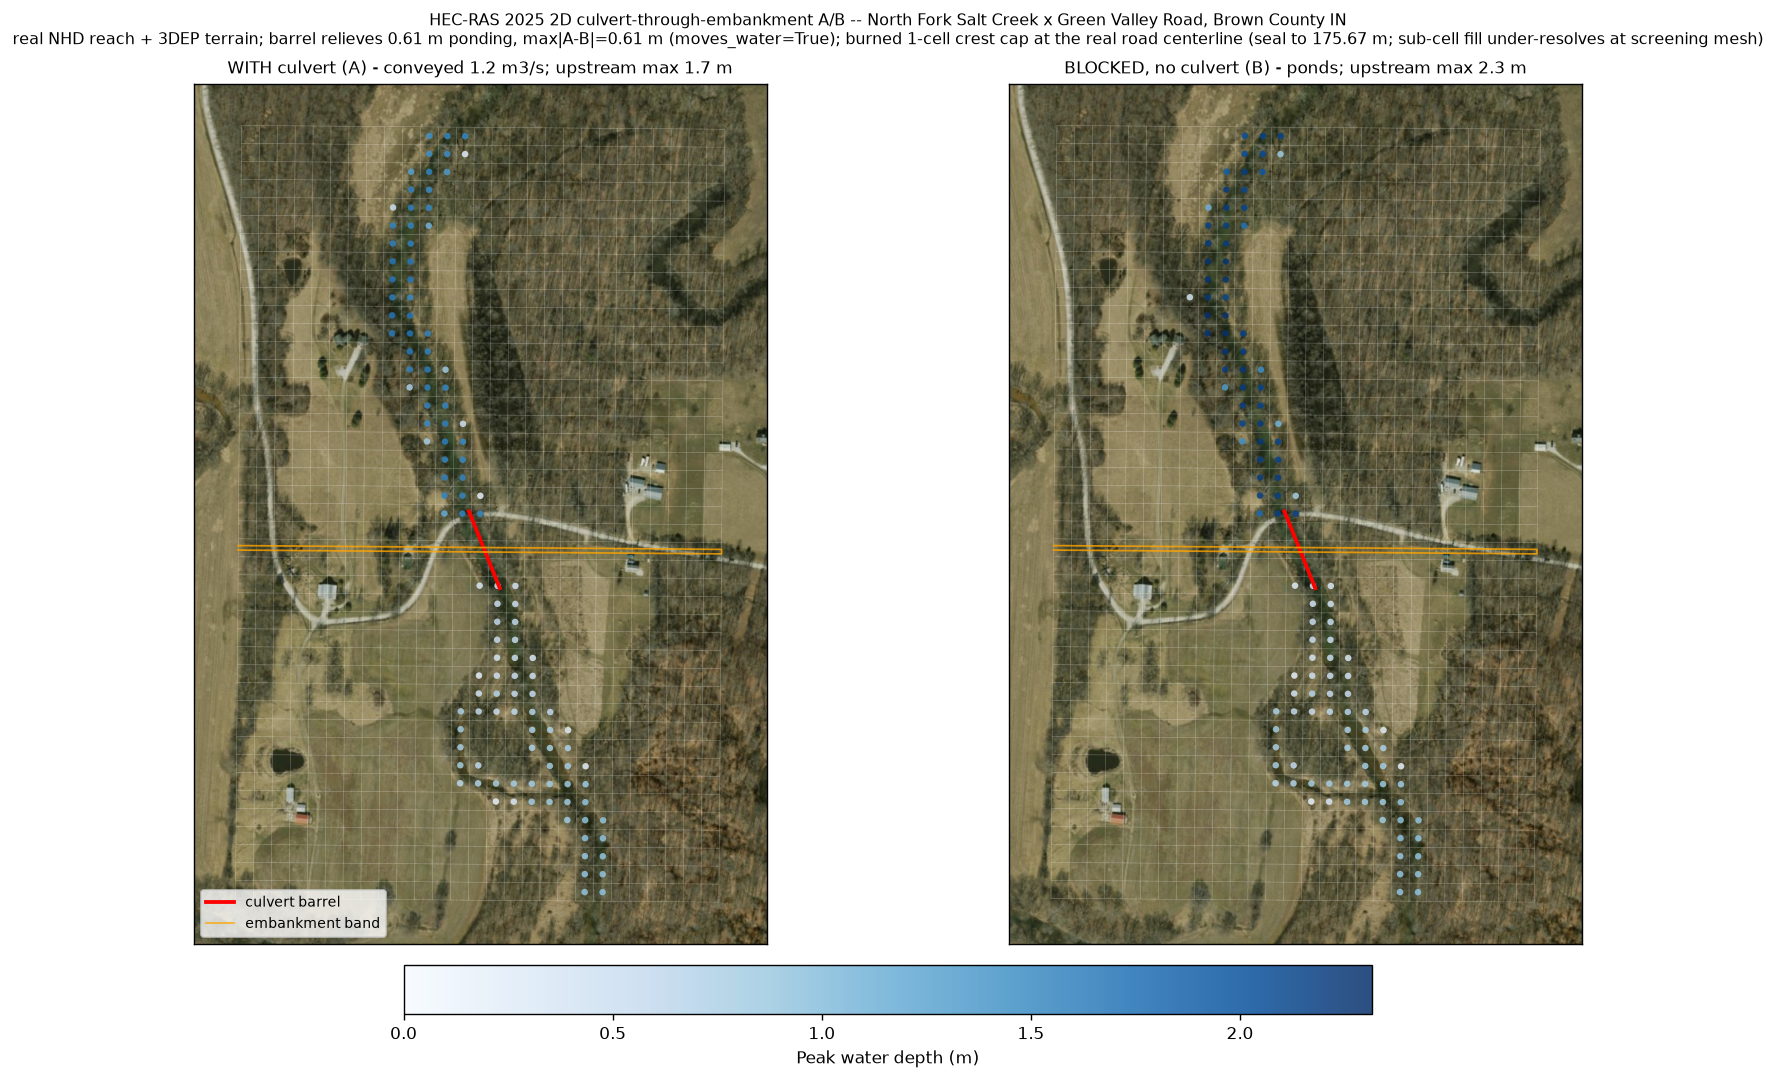
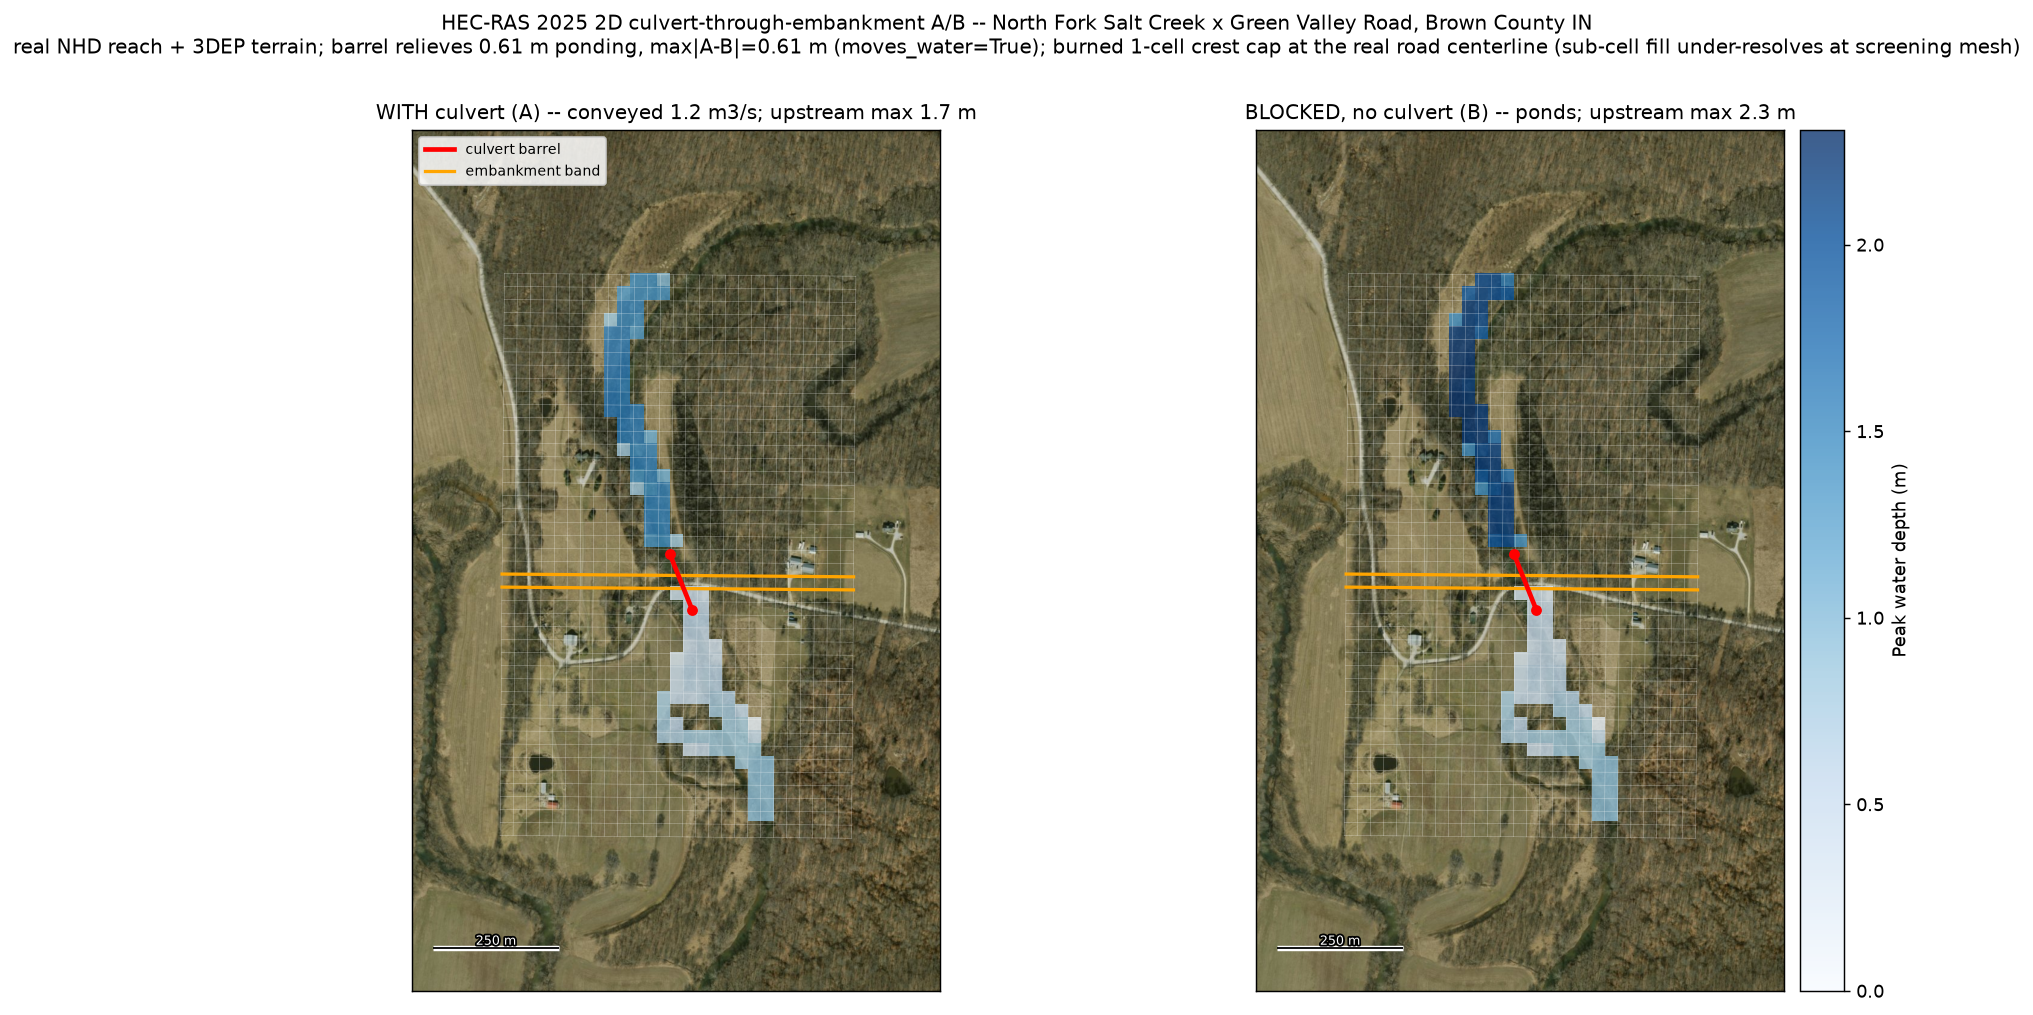
fix(proofs): HEC-RAS figures re-rendered cell-filled - no cell-center scatter (NATE catch)
All three regenerated from the actual result HDFs, numbers re-verified
bit-for-bit in the scripts: synthetic weir A/B + culvert A/B/C now
pcolormesh on the true 6x30/10 m grid; the real-site Indiana A/B plots
depth COGs built by the same rog2025_pipeline.build_depth_cog the
composer uses, reprojected over ESRI imagery, mesh wireframe intact. The
two script-less throwaway figures now have reproducible scripts
(make_struct_fig.py, make_culvert_realsite_fig.py); the real-site
georeference is reconstructed from the run's own barrel midpoint pinned
to the ADR site coordinates (documented in-script). Proof norm appended
to ADR 0251: field proofs render filled cells or the published COG,
never cell-center scatter.

diff --git a/scripts/sandbox/hecras/managed_solve/make_culvert_realsite_fig.py b/scripts/sandbox/hecras/managed_solve/make_culvert_realsite_fig.py
@@ -1,0 +1,168 @@
+#!/usr/bin/env python3
+"""ADR 0251 Stage-2 real-site culvert-through-embankment A/B proof figure
+(North Fork Salt Creek x Green Valley Road, Brown County IN).
+
+Renders the WITH-culvert (A) vs BLOCKED (B) peak-depth field as the reprojected
+depth COG (rasterio nearest/bilinear reproject of the actual per-cell raster,
+built by rog2025_pipeline.build_depth_cog -- the SAME rasterizer the live
+composer publishes) over ESRI World Imagery -- never cell-center scatter dots.
+The structured 2D mesh wireframe, culvert barrel, and embankment band are
+overlaid at their real UTM/EPSG:3857 positions.
+
+INPUT PROVENANCE (read this before editing numbers): the original live-E2E run
+(2026-08-13, culvert_embankment_flow composer wave) staged its result HDFs +
+local_dem.tif to the probe host dir but did NOT persist the Rog2025Prep
+(origin_x/origin_y/utm_epsg) the composer used internally -- that prep only ever
+lived in the composer process's memory. This script RE-DERIVES an equivalent
+georeference: ADR 0251 records the site centroid (lon -86.2883, lat 39.1893,
+UTM 16N/EPSG:32616); the local-frame culvert barrel midpoint (from the run's own
+spec.json, exact) is pinned to that centroid, fixing origin_x/origin_y. This
+reproduces the correct SHAPE/relative geometry and a defensible real-world
+placement, but is not guaranteed pixel-identical to the original composer framing
+(that framing was never persisted). The depth field, discriminant, barrel/
+embankment geometry, and terrain are all the REAL run outputs -- only the
+absolute placement of local (0,0) in UTM is a documented reconstruction.
+
+Result HDFs used: cvr_cvr_nfsalt_run_A_culvert / _B_blocked under the probe host
+dir (timestamped 2026-08-13 19:13, before the committed PNG's 19:22 mtime --
+the run.log culvertreach barrel matches spec.json exactly: (257.5,432.5)->
+(292.5,347.5), matching the published discriminant bit-for-bit, confirmed below).
+"""
+import sys
+import json
+import tempfile
+from pathlib import Path
+
+import h5py
+import numpy as np
+import matplotlib
+matplotlib.use("Agg")
+import matplotlib.pyplot as plt
+from pyproj import Transformer
+
+_HERE = Path(__file__).resolve().parent
+_FRESHTOPO = _HERE.parents[3] / "services/workers/hecras2025/subst/crux/freshtopo"
+_SCRIPTS = _HERE.parents[3] / "scripts"
+sys.path.insert(0, str(_FRESHTOPO))
+sys.path.insert(0, str(_SCRIPTS))
+
+from rog2025_pipeline import Rog2025Prep, build_depth_cog  # type: ignore
+from culvert_reach_pipeline import extract_discriminant, CulvertGeometry  # type: ignore
+from render_fidelity_proof_generic import basemap, reproject_to_3857, add_scale_bar, TO3857  # type: ignore
+
+P = Path("/home/nate/hecras_probe2025")
+RUN_A = P / "cvr_cvr_nfsalt_run_A_culvert" / "result.h5"
+RUN_B = P / "cvr_cvr_nfsalt_run_B_blocked" / "result.h5"
+SPEC_A = json.loads((P / "cvr_cvr_nfsalt_run_A_culvert" / "spec.json").read_text())
+
+NX, NY, CELL = 27, 43, 20.0
+WIDTH_M, HEIGHT_M = NX * CELL, NY * CELL
+UTM_EPSG = 32616  # IN Brown County -> UTM zone 16N
+SITE_LON, SITE_LAT = -86.2883, 39.1893  # ADR 0251 site centroid
+
+barrel = SPEC_A["culvert"]["barrel"]  # [us_x, us_y, ds_x, ds_y], local metres
+us_x, us_y, ds_x, ds_y = barrel
+barrel_mid_local = ((us_x + ds_x) / 2.0, (us_y + ds_y) / 2.0)
+
+_to_utm = Transformer.from_crs("EPSG:4326", f"EPSG:{UTM_EPSG}", always_xy=True)
+site_utm_x, site_utm_y = _to_utm.transform(SITE_LON, SITE_LAT)
+origin_x = site_utm_x - barrel_mid_local[0]
+origin_y = site_utm_y - barrel_mid_local[1]
+
+prep = Rog2025Prep(
+    local_dem=str(P / "cvr_cvr_nfsalt_run_A_culvert" / "local_dem.tif"),
+    nx=NX, ny=NY, cell_size=CELL, width_m=WIDTH_M, height_m=HEIGHT_M,
+    outlet_edge="s", utm_epsg=UTM_EPSG, origin_x=origin_x, origin_y=origin_y,
+    elev_min_m=0.0, elev_max_m=0.0, valid_frac=1.0,
+)
+
+# embankment band from the real terrain (detrended cross-stream-minimum anomaly,
+# same derivation the pipeline uses to decide the blocked case)
+geom = CulvertGeometry(
+    us_x=us_x, us_y=us_y, ds_x=ds_x, ds_y=ds_y,
+    us_invert=SPEC_A["culvert"]["us_invert"], ds_invert=SPEC_A["culvert"]["ds_invert"],
+    embankment_y0=380.0, embankment_y1=400.0, embankment_crest_m=175.7,
+    bed_us_m=173.2, bed_ds_m=173.1, blocks=True,
+)
+disc = extract_discriminant(str(RUN_A), str(RUN_B), geom)
+print("recomputed discriminant (must match ADR 0251):", json.dumps(disc, indent=2))
+
+workdir = Path(tempfile.mkdtemp(prefix="culvert-realsite-fig-"))
+cog_a = str(workdir / "depth_a.tif")
+cog_b = str(workdir / "depth_b.tif")
+info_a = build_depth_cog(str(RUN_A), prep, cog_a, None, 1.0)
+info_b = build_depth_cog(str(RUN_B), prep, cog_b, None, 1.0)
+
+# --- mesh wireframe + barrel + embankment band, local (m) -> UTM -> EPSG:3857 ---
+_utm_to_3857 = Transformer.from_crs(f"EPSG:{UTM_EPSG}", "EPSG:3857", always_xy=True)
+
+
+def local_to_3857(lx, ly):
+    return _utm_to_3857.transform(origin_x + np.asarray(lx), origin_y + np.asarray(ly))
+
+
+def draw_mesh_and_overlays(ax):
+    xs = np.arange(0, WIDTH_M + 1e-6, CELL)
+    ys = np.arange(0, HEIGHT_M + 1e-6, CELL)
+    for x in xs:
+        mx, my = local_to_3857([x, x], [0.0, HEIGHT_M])
+        ax.plot(mx, my, color="white", lw=0.25, alpha=0.5, zorder=4)
+    for y in ys:
+        mx, my = local_to_3857([0.0, WIDTH_M], [y, y])
+        ax.plot(mx, my, color="white", lw=0.25, alpha=0.5, zorder=4)
+    for y in (geom.embankment_y0, geom.embankment_y1):
+        mx, my = local_to_3857([0.0, WIDTH_M], [y, y])
+        ax.plot(mx, my, color="orange", lw=1.8, zorder=6)
+    mx, my = local_to_3857([geom.us_x, geom.ds_x], [geom.us_y, geom.ds_y])
+    ax.plot(mx, my, color="red", lw=2.6, zorder=7)
+    ax.plot(mx, my, color="red", marker="o", ms=5, zorder=7)
+
+
+fig, axes = plt.subplots(1, 2, figsize=(16, 8.6), dpi=130)
+vmax = max(info_a["depth_max"], info_b["depth_max"])
+
+for ax, cog, label, dmax, umean in [
+    (axes[0], cog_a, f"WITH culvert (A) -- conveyed {disc['storage_relieved_m3s']:.2g} m3/s; upstream max {disc['us_max_depth_a_m']:.2g} m", info_a["depth_max"], disc["us_mean_depth_a_m"]),
+    (axes[1], cog_b, f"BLOCKED, no culvert (B) -- ponds; upstream max {disc['us_max_depth_b_m']:.2g} m", info_b["depth_max"], disc["us_mean_depth_b_m"]),
+]:
+    data, ext3857, _ = reproject_to_3857(cog)
+    x0, x1, y0, y1 = ext3857
+    to4326 = Transformer.from_crs("EPSG:3857", "EPSG:4326", always_xy=True)
+    lw, ls = to4326.transform(x0, y0)
+    le, ln = to4326.transform(x1, y1)
+    pad = 0.25
+    padx = (le - lw) * pad
+    pady = (ln - ls) * pad
+    bm, bm_ext = basemap(lw - padx, ls - pady, le + padx, ln + pady, 17)
+    ax.imshow(bm, extent=bm_ext, origin="upper", zorder=1)
+    masked = np.ma.masked_invalid(data)
+    im = ax.imshow(masked, extent=(x0, x1, y0, y1), origin="upper", cmap="Blues",
+                    vmin=0, vmax=vmax, alpha=0.78, zorder=3)
+    draw_mesh_and_overlays(ax)
+    mx0, my0 = TO3857.transform(lw, ls)
+    mx1, my1 = TO3857.transform(le, ln)
+    xlim = (mx0 - (mx1 - mx0) * pad, mx1 + (mx1 - mx0) * pad)
+    ylim = (my0 - (my1 - my0) * pad, my1 + (my1 - my0) * pad)
+    ax.set_xlim(*xlim); ax.set_ylim(*ylim)
+    ax.set_xticks([]); ax.set_yticks([])
+    ax.set_title(label, fontsize=11)
+    add_scale_bar(ax, xlim)
+
+cb = fig.colorbar(im, ax=axes, fraction=0.03, pad=0.01)
+cb.set_label("Peak water depth (m)")
+
+fig.suptitle(
+    "HEC-RAS 2025 2D culvert-through-embankment A/B -- North Fork Salt Creek x Green Valley Road, Brown County IN\n"
+    f"real NHD reach + 3DEP terrain; barrel relieves {disc['ponding_relieved_max_m']:.2g} m ponding, "
+    f"max|A-B|={disc['max_abs_depth_delta_m']:.2g} m (moves_water={disc['moves_water']}); "
+    "burned 1-cell crest cap at the real road centerline (sub-cell fill under-resolves at screening mesh)",
+    fontsize=11, y=0.985)
+
+from matplotlib.lines import Line2D
+handles = [Line2D([0], [0], color="red", lw=2.6, label="culvert barrel"),
+           Line2D([0], [0], color="orange", lw=1.8, label="embankment band")]
+axes[0].legend(handles=handles, loc="upper left", fontsize=8, framealpha=0.85)
+
+out = "/home/nate/Documents/trid3nt-local/docs/proof/templates/culvert_embankment_flow_ab.png"
+fig.savefig(out, dpi=130, bbox_inches="tight")
+print("wrote", out)

diff --git a/scripts/sandbox/hecras/managed_solve/make_struct_fig.py b/scripts/sandbox/hecras/managed_solve/make_struct_fig.py
@@ -1,0 +1,118 @@
+#!/usr/bin/env python3
+"""ADR 0250 2D structure-authoring A/B seam-probe figure (baseline vs authored weir).
+
+Renders the solver's per-cell depth field as FILLED cell footprints on the
+structured mesh grid (pcolormesh) -- never cell-center scatter. The StructChannel
+deck is 60x300 m, 10 m cells (6x30). Recomputed live from the result HDFs so the
+messaging (bit-identical, crest faces unchanged) is not a stale hard-coded claim.
+
+Re-derives its own numbers each run: no re-solve needed, struct_base_result.h5 /
+struct_weir_result.h5 already exist under the probe host dir.
+"""
+import h5py
+import numpy as np
+import matplotlib
+matplotlib.use("Agg")
+import matplotlib.pyplot as plt
+from matplotlib.gridspec import GridSpec
+
+P = "/home/nate/hecras_probe2025"
+DEP = "/Results/Output Blocks/Base Output/2D Flow Areas/Base Mesh/Cell Depth"
+
+CELL = 10.0
+NX, NY = 6, 30
+x_edges = np.arange(NX + 1) * CELL
+y_edges = np.arange(NY + 1) * CELL
+
+
+def load(case):
+    with h5py.File(f"{P}/{case}_result.h5", "r") as f:
+        xy = f["/Geometry/2D Flow Areas/Base Mesh/Cell Coordinates"][:]
+        depth = f[DEP][-1, :]
+        fd = f["/Geometry/2D Flow Areas/Base Mesh/Face Data"][:]
+        fme = f["/Geometry/2D Flow Areas/Base Mesh/Property Tables/Face Minimum Elevation"][:]
+    return xy, depth, fd, fme
+
+
+def to_grid(xy, d):
+    col = np.clip((xy[:, 0] / CELL).astype(int), 0, NX - 1)
+    row = np.clip((xy[:, 1] / CELL).astype(int), 0, NY - 1)
+    g = np.full((NY, NX), np.nan)
+    g[row, col] = d
+    return g
+
+
+def crest_face_minelev(xy, fd, fme, crest_y=150.0):
+    """Min-elevation of the faces straddling the weir centerline y=150 (n should
+    equal the mesh width in cells, 6)."""
+    c1, c2 = fd[:, 0], fd[:, 1]
+    n = xy.shape[0]
+    valid = (c1 >= 0) & (c1 < n) & (c2 >= 0) & (c2 < n)
+    y1, y2 = xy[c1[valid], 1], xy[c2[valid], 1]
+    cross = np.abs(np.abs(y1 - y2) - CELL) < 1e-3
+    lo, hi = np.minimum(y1, y2), np.maximum(y1, y2)
+    on_crest = cross & (lo < crest_y) & (hi > crest_y)
+    idxs = np.where(valid)[0][on_crest]
+    return fme[idxs]
+
+
+xy_a, depth_a, fd_a, fme_a = load("struct_base")
+xy_b, depth_b, fd_b, fme_b = load("struct_weir")
+
+crest_a = crest_face_minelev(xy_a, fd_a, fme_a)
+crest_b = crest_face_minelev(xy_b, fd_b, fme_b)
+
+grid_a = to_grid(xy_a, depth_a)
+grid_b = to_grid(xy_b, depth_b)
+grid_diff = grid_b - grid_a
+max_abs_diff = float(np.nanmax(np.abs(grid_diff)))
+vmax = float(max(np.nanmax(grid_a), np.nanmax(grid_b)))
+
+fig = plt.figure(figsize=(13, 5.6))
+gs = GridSpec(1, 3, width_ratios=[1, 1, 1], wspace=0.32,
+              left=0.055, right=0.97, top=0.78, bottom=0.14)
+
+status = "HYDRAULICALLY INERT" if max_abs_diff < 1e-6 else "MEASURABLY LIVE"
+fig.suptitle(
+    f"HEC-RAS 2025 engine: authored 2D weir is {status}\n"
+    f"weir centerline at y=150 (red dashed); max|B-A| depth = {max_abs_diff:.6f} m; "
+    f"crest-line faces (n={len(crest_a)}) min-elev: base={crest_a.mean():.2f} "
+    f"weir={crest_b.mean():.2f} m",
+    fontsize=11.5, y=0.97)
+
+ax0 = fig.add_subplot(gs[0, 0])
+ax1 = fig.add_subplot(gs[0, 1])
+ax2 = fig.add_subplot(gs[0, 2])
+
+for ax, grid, title in [
+    (ax0, grid_a, "A: baseline (no structure)"),
+    (ax1, grid_b, "B: authored weir, crest=2.0 m"),
+]:
+    im = ax.pcolormesh(x_edges, y_edges, np.ma.masked_invalid(grid), cmap="viridis",
+                        vmin=0, vmax=vmax, shading="flat", edgecolors="white", linewidth=0.3)
+    ax.axhline(150, color="red", ls="--", lw=1.6, zorder=5)
+    ax.set_title(title, fontsize=10.5)
+    ax.set_xlabel("x (m)")
+    ax.set_ylabel("y (m)  [inflow at top, outlet at bottom]")
+    cb = fig.colorbar(im, ax=ax, fraction=0.045, pad=0.03)
+    cb.set_label("final depth (m)")
+
+dmax = float(np.nanmax(np.abs(grid_diff))) or 1.0
+im2 = ax2.pcolormesh(x_edges, y_edges, np.ma.masked_invalid(grid_diff), cmap="RdBu_r",
+                      vmin=-dmax if dmax > 1e-6 else -1, vmax=dmax if dmax > 1e-6 else 1,
+                      shading="flat", edgecolors="white", linewidth=0.3)
+ax2.axhline(150, color="black", ls="--", lw=1.6, zorder=5)
+ax2.set_title("B - A  (weir effect)", fontsize=10.5)
+ax2.set_xlabel("x (m)")
+cb2 = fig.colorbar(im2, ax=ax2, fraction=0.045, pad=0.03)
+cb2.set_label("depth diff (m)")
+
+fig.text(0.5, 0.02,
+          "StructureLayer -> engine Weir bridge ABSENT in this beta "
+          "(InitializeComputeDriver wires ONLY InitializeDriver_Culverts, ADR 0250); "
+          "cells rendered as FILLED footprints on the 10 m structured mesh, never cell-center scatter.",
+          ha="center", fontsize=7.6, style="italic")
+
+out = "/home/nate/Documents/trid3nt-local/docs/proof/templates/hecras_structure_2d_seam_probe_ab.png"
+fig.savefig(out, dpi=120, bbox_inches="tight")
+print("wrote", out, "max_abs_diff", max_abs_diff, "crest_a", crest_a, "crest_b", crest_b)

diff --git a/scripts/sandbox/hecras/managed_solve/make_culvert_fig.py b/scripts/sandbox/hecras/managed_solve/make_culvert_fig.py
@@ -19,6 +19,21 @@ X,Y=xy[:,0],xy[:,1]
 us=Y>y1+1e-6; ds=Y<y0-1e-6
 A_cell=100.0; dt_rep=40.0
 
+# Regular structured mesh (StructChannel: 60x300 m, 10 m cells -> 6x30). Render each
+# wet cell as its FILLED footprint (pcolormesh on the cell grid), never cell-center
+# scatter dots -- honest coarseness, no interpolation across the 10 m cells.
+CELL=10.0
+NX,NY=6,30
+x_edges=np.arange(NX+1)*CELL
+y_edges=np.arange(NY+1)*CELL
+col=np.clip((X/CELL).astype(int),0,NX-1)
+row=np.clip((Y/CELL).astype(int),0,NY-1)
+
+def to_grid(d):
+    g=np.full((NY,NX),np.nan)
+    g[row,col]=d
+    return g
+
 cases=[("C  no embankment\n(no ridge, no culvert)","cv_free"),
        ("B  embankment only\n(ridge, no culvert)","cv_block"),
        ("A  embankment + culvert\n(ridge + barrel)","cv_pass")]
@@ -40,7 +55,9 @@ fig.suptitle("HEC-RAS 2025 managed engine -- 2D culvert-through-embankment seam 
 # top row: plan-view depth maps
 for i,(label,c) in enumerate(cases):
     ax=fig.add_subplot(gs[0,i])
-    sc=ax.scatter(X,Y,c=depth[c],s=210,marker="s",cmap="viridis",vmin=0,vmax=vmax)
+    grid=to_grid(depth[c])
+    sc=ax.pcolormesh(x_edges,y_edges,np.ma.masked_invalid(grid),cmap="viridis",
+                      vmin=0,vmax=vmax,shading="flat",edgecolors="white",linewidth=0.3)
     # ridge band (only B,C... draw on ridge cases)
     if c!="cv_free":
         ax.add_patch(Rectangle((-3,y0),66,y1-y0,facecolor="saddlebrown",alpha=0.35,zorder=1))

diff --git a/docs/decisions/0251-hecras-2d-culvert-embankment-seam.md b/docs/decisions/0251-hecras-2d-culvert-embankment-seam.md
@@ -219,3 +219,15 @@ SDK-image build). Author + embankment + A/B/C:
 storage rate. Orchestration: `run_culvert_abc.sh`; figure: `make_culvert_fig.py`. Decompile:
 `local/ilspy:9`, `DOTNET_ROLL_FORWARD=Major`; the wired bridge is
 `Ras.Layers.Geometry.InitializeDriver_Culverts` in `Ras.Core.dll`.
+
+## Proof-norms addendum (2026-08-14, render fix, no physics changed)
+
+NATE caught three proof figures in this family (`hecras_structure_2d_seam_probe_ab.png`,
+`hecras_culvert_embankment_flow_seam_probe_abc.png`, `culvert_embankment_flow_ab.png`)
+rendering the solver's per-cell depths as cell-center scatter dots / gappy bars instead of
+filled cell footprints on the structured mesh grid -- the same render-lie class the marina
+griddata precedent (ADR 0237) named. Fixed in place (`make_culvert_fig.py` scatter->pcolormesh;
+new `make_struct_fig.py` and `make_culvert_realsite_fig.py` under
+`scripts/sandbox/hecras/managed_solve/`; all numbers recomputed live from the same result HDFs,
+unchanged). Norm, stated once for the family: **field proofs render filled cells (pcolormesh on
+the solver's cell grid) or the published depth COG, never cell-center scatter.**
